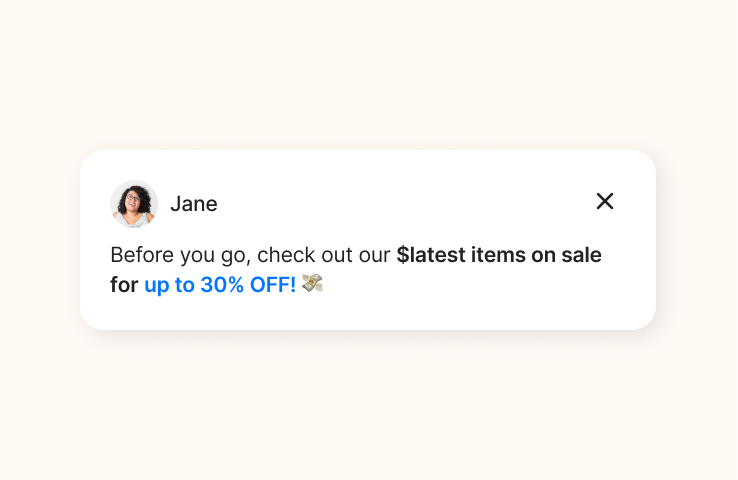
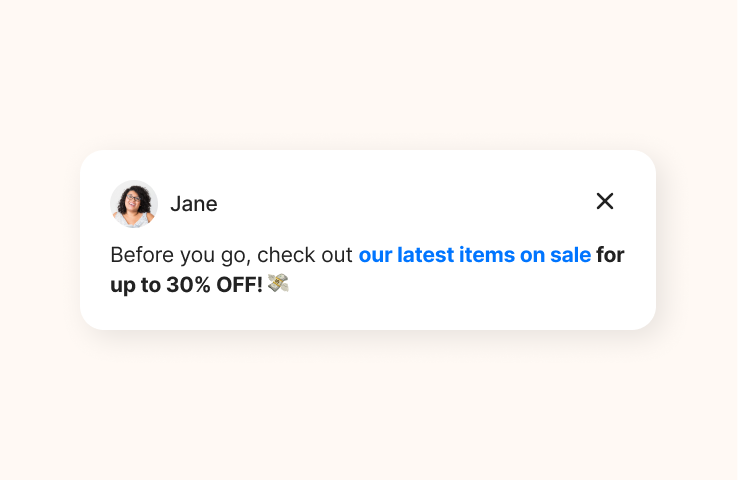
feat(convert): Compaigns Library QA Fixes (#3668)

Changed region(s): [[0.4675, 0.5, 0.8415, 0.5625], [0.1558, 0.5625, 0.4363, 0.625]]

diff --git a/src/pages/convert/campaigns/templates/library/promoteNewsletterForNewVisitors.ts b/src/pages/convert/campaigns/templates/library/promoteNewsletterForNewVisitors.ts
@@ -30,7 +30,7 @@ export const PROMOTE_NEWSLETTER_FOR_NEW_VISITORS: CampaignTemplate = {
             stepConfiguration: {
                 [CampaignStepsKeys.Message]: {
                     banner: {
-                        type: BannerType.Info,
+                        type: BannerType.Warning,
                         content:
                             'Before activating the campaign, <strong>add the correct URL links to your newsletter/SMS sign-up pages</strong> in your message.',
                     },
@@ -82,8 +82,8 @@ export const PROMOTE_NEWSLETTER_FOR_NEW_VISITORS: CampaignTemplate = {
             {
                 name: PROMOTE_NEWSLETTER_FOR_NEW_VISITORS.name,
                 template_id: PROMOTE_NEWSLETTER_FOR_NEW_VISITORS.slug,
-                message_text: `🌟 Save $25 OFF your order over $75 when you join our email list or sign up for SMS alerts!\n\n(if you haven't already) 😉`,
-                message_html: `<div>🌟 Save <strong>$25 OFF</strong> your order over <strong>$75</strong> when you <strong><a href=\"\" target=\"_blank\">join our email list</a></strong> or <strong><a href=\"\" target=\"_blank\">sign up for SMS alerts</a></strong>!</div><div><br></div><div>(if you haven&#x27;t already) 😉</div>`,
+                message_text: `🌟 Save 10% OFF your order when you subscribe to our newsletter or our SMS alerts!`,
+                message_html: `<div>🌟 Save <strong>10% OFF</strong> your order when you <strong>subscribe to our newsletter</strong> or <strong>our SMS alerts!</strong></div><div><br></div>`,
                 status: CampaignStatus.Inactive,
                 triggers: triggers,
                 trigger_rule: createTriggerRule(triggers),

diff --git a/src/pages/convert/campaigns/containers/CampaignTemplateCustomizeView/CampaignTemplateCustomizeBaseView.tsx b/src/pages/convert/campaigns/containers/CampaignTemplateCustomizeView/CampaignTemplateCustomizeBaseView.tsx
@@ -1,4 +1,4 @@
-import React, {useCallback, useEffect, useMemo, useState} from 'react'
+import React, {useCallback, useEffect, useMemo, useState, useRef} from 'react'
 
 import {Breadcrumb, BreadcrumbItem} from 'reactstrap'
 import classnames from 'classnames'
@@ -43,6 +43,8 @@ const CampaignTemplateCustomizeBaseView = ({
     successBackUrl,
     backUrlTitle,
 }: OwnProps) => {
+    const ref = useRef<HTMLDivElement>(null)
+
     const {
         [CONVERT_ROUTE_PARAM_NAME]: integrationId,
         [CONVERT_ROUTE_TEMPLATE_PARAM_NAME]: templateSlug,
@@ -90,6 +92,18 @@ const CampaignTemplateCustomizeBaseView = ({
             enabled: !!campaignListOptions.channelConnectionId,
         }
     )
+
+    useEffect(() => {
+        if (!ref.current) {
+            return
+        }
+
+        // scroll to top
+        ref.current?.scrollTo({
+            top: 0,
+            behavior: 'smooth',
+        })
+    }, [ref])
 
     const [campaign, setCampaign] = useState<Campaign>({} as Campaign)
     const [isTemplateLoading, setIsTemplateLoading] = useState(false)
@@ -179,7 +193,7 @@ const CampaignTemplateCustomizeBaseView = ({
     )
 
     return (
-        <div className={classnames('full-width')}>
+        <div ref={ref} className={classnames('full-width')}>
             <PageHeader
                 title={
                     <Breadcrumb>

diff --git a/src/pages/convert/campaigns/templates/library/linkValuableResourcesToHelpVisitors.ts b/src/pages/convert/campaigns/templates/library/linkValuableResourcesToHelpVisitors.ts
@@ -66,7 +66,7 @@ export const LINK_VALUABLE_RESOURCES_TO_HELP_VISITORS: CampaignTemplate = {
                 name: LINK_VALUABLE_RESOURCES_TO_HELP_VISITORS.name,
                 template_id: LINK_VALUABLE_RESOURCES_TO_HELP_VISITORS.slug,
                 message_html:
-                    '<div>Need help with <strong>last-minute purchase</strong>? Leave us a message or check out our guide on <strong><a href="" target="_blank">custom express orders</a></strong> 🚚</div><div><br></div><div>We&#x27;ll be back at <strong>9AM tomorrow</strong> for you. </div>',
+                    '<div>Need help with <strong>last-minute purchase</strong>? Leave us a message or check out our guide on <strong>custom express orders</strong> 🚚</div><div><br></div><div>We&#x27;ll be back at <strong>9AM tomorrow</strong> for you. </div>',
                 message_text:
                     "Need help with last-minute purchase? Leave us a message or check out our guide on custom express orders 🚚\n\nWe'll be back at 9AM tomorrow for you. ",
                 status: CampaignStatus.Inactive,

diff --git a/src/pages/convert/campaigns/templates/library/connectCustomerOnCartWithTeam.ts b/src/pages/convert/campaigns/templates/library/connectCustomerOnCartWithTeam.ts
@@ -53,9 +53,9 @@ export const CONNECT_CUSTOMER_ON_CART_WITH_TEAM: CampaignTemplate = {
                 name: CONNECT_CUSTOMER_ON_CART_WITH_TEAM.name,
                 template_id: CONNECT_CUSTOMER_ON_CART_WITH_TEAM.slug,
                 message_html:
-                    '<div>You&#x27;ve got great taste. 🛒</div><div><br></div><div>Is there anything else we can help you with <strong>before you check out?</strong> 💳</div>',
+                    '<div><strong>Great choice!</strong> 🛒</div><div><br></div><div>Can we <strong>help you</strong> with anything else before checkout?</div>',
                 message_text:
-                    "You've got great taste. 🛒\n\nIs there anything else we can help you with before you check out? 💳",
+                    'Great choice! 🛒\n\nCan we help you with anything else before checkout?',
                 status: CampaignStatus.Inactive,
                 triggers: triggers,
                 trigger_rule: createTriggerRule(triggers),

diff --git a/src/pages/convert/campaigns/templates/library/promoteQuizzesToChooseProduct.ts b/src/pages/convert/campaigns/templates/library/promoteQuizzesToChooseProduct.ts
@@ -66,7 +66,7 @@ export const PROMOTE_QUIZZES_TO_HELP_VISIOTOR: CampaignTemplate = {
                 name: PROMOTE_QUIZZES_TO_HELP_VISIOTOR.name,
                 template_id: PROMOTE_QUIZZES_TO_HELP_VISIOTOR.slug,
                 message_html:
-                    '<div>💡 Not sure which style to choose?</div><div><br></div><div><strong><a href="" target="_blank">Take our quiz</a></strong> or chat with our leather artisans now! 👇</div>',
+                    '<div>💡 Not sure which style to choose?</div><div><br></div><div><strong>Take our quiz</strong> or chat with our leather artisans now! 👇</div>',
                 message_text:
                     '💡 Not sure which style to choose?\n\nTake our quiz or chat with our leather artisans now! 👇',
 

diff --git a/src/pages/convert/campaigns/templates/library/promoteSaleCollectionForReturning.ts b/src/pages/convert/campaigns/templates/library/promoteSaleCollectionForReturning.ts
@@ -81,7 +81,7 @@ export const PROMOTE_SALE_COLLECTION: CampaignTemplate = {
             name: PROMOTE_SALE_COLLECTION.name,
             template_id: PROMOTE_SALE_COLLECTION.slug,
             message_html:
-                '<div>Before you go, check out our <strong>latest items on sale for <a href="" target="_blank">up to 30% OFF</a>!</strong>💸</div>',
+                '<div>Before you go, check out our <strong>latest items on sale for up to 30% OFF!</strong>💸</div>',
             message_text:
                 'Before you go, check out our latest items on sale for up to 30% OFF!💸',
             status: CampaignStatus.Inactive,

diff --git a/src/pages/convert/campaigns/components/ConvertLibraryBanner/ConvertLibraryBanner.tsx b/src/pages/convert/campaigns/components/ConvertLibraryBanner/ConvertLibraryBanner.tsx
@@ -29,10 +29,6 @@ const ConvertLibraryBanner = ({integrationId}: Props) => {
                         >
                             <Button>View campaign library</Button>
                         </Link>
-
-                        <Link to={'#'} className={css.linkMargin}>
-                            <Button intent="secondary">Learn more</Button>
-                        </Link>
                     </div>
                 </div>
                 <div className={css.preview}>

diff --git a/src/pages/convert/campaigns/containers/CampaignTemplateCustomizeView/__tests__/CampaignTemplateCustomizeLibraryView.spec.tsx b/src/pages/convert/campaigns/containers/CampaignTemplateCustomizeView/__tests__/CampaignTemplateCustomizeLibraryView.spec.tsx
@@ -103,6 +103,8 @@ describe('CampaignTemplateCustomizeView', () => {
             'useIsConvertSubscriber'
         ).mockImplementation(() => true)
 
+        window.HTMLElement.prototype.scrollTo = jest.fn()
+
         // It is used by draft-js somewhere deep in code
         jest.spyOn(document, 'createRange').mockReturnValue(mockRange as any)
         jest.spyOn(window, 'getSelection').mockReturnValue(mockSelection as any)

diff --git a/src/pages/convert/campaigns/containers/CampaignTemplateCustomizeView/__tests__/CampaignTemplateCustomizeRecommendationsView.spec.tsx b/src/pages/convert/campaigns/containers/CampaignTemplateCustomizeView/__tests__/CampaignTemplateCustomizeRecommendationsView.spec.tsx
@@ -80,6 +80,8 @@ describe('CampaignTemplateCustomizeView', () => {
             isConvertSubscriberHook,
             'useIsConvertSubscriber'
         ).mockImplementation(() => true)
+
+        window.HTMLElement.prototype.scrollTo = jest.fn()
     })
 
     it('should render campaign form with template data', async () => {

diff --git a/src/pages/convert/campaigns/components/ConvertLibraryBanner/__tests__/ConvertLibraryBanner.spec.tsx b/src/pages/convert/campaigns/components/ConvertLibraryBanner/__tests__/ConvertLibraryBanner.spec.tsx
@@ -11,7 +11,6 @@ describe('ConvertLibraryBanner', () => {
         )
 
         expect(getByText('View campaign library')).toBeInTheDocument()
-        expect(getByText('Learn more')).toBeInTheDocument()
     })
 
     it('renders title and content', () => {
